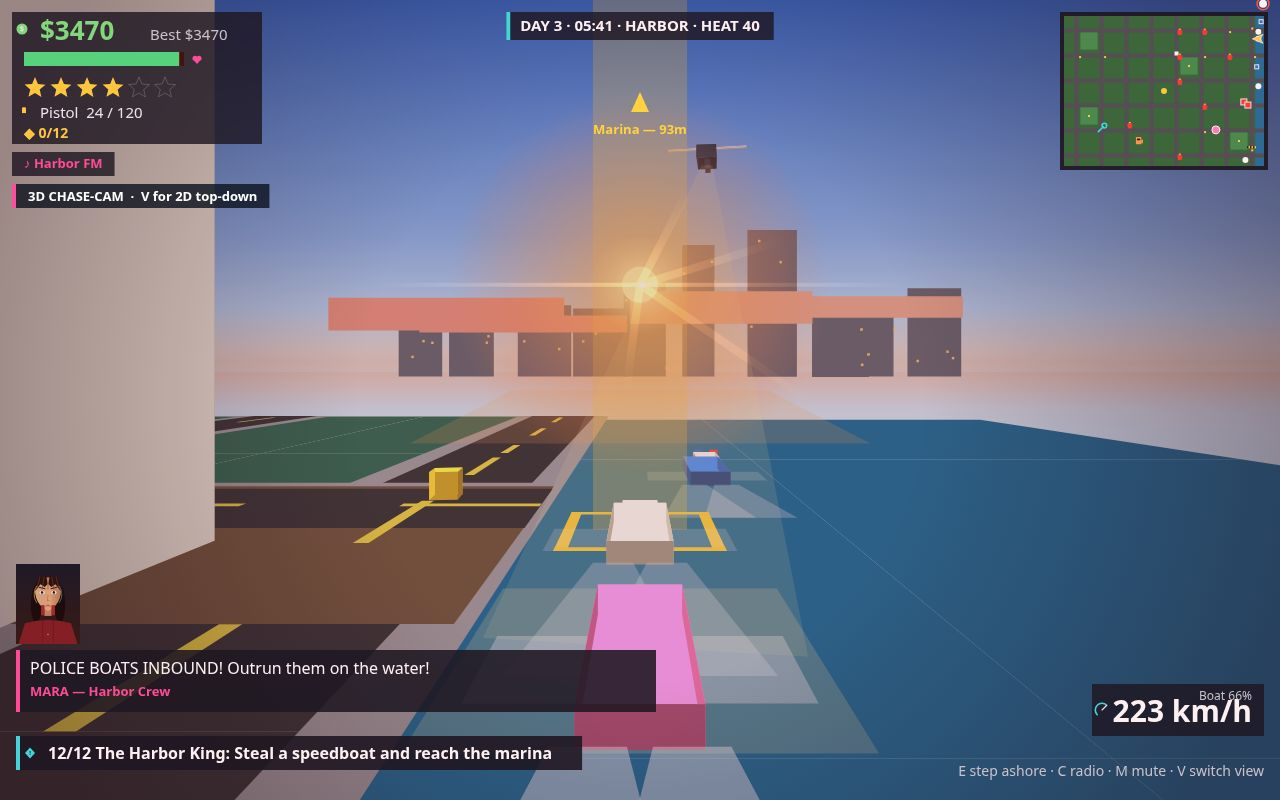
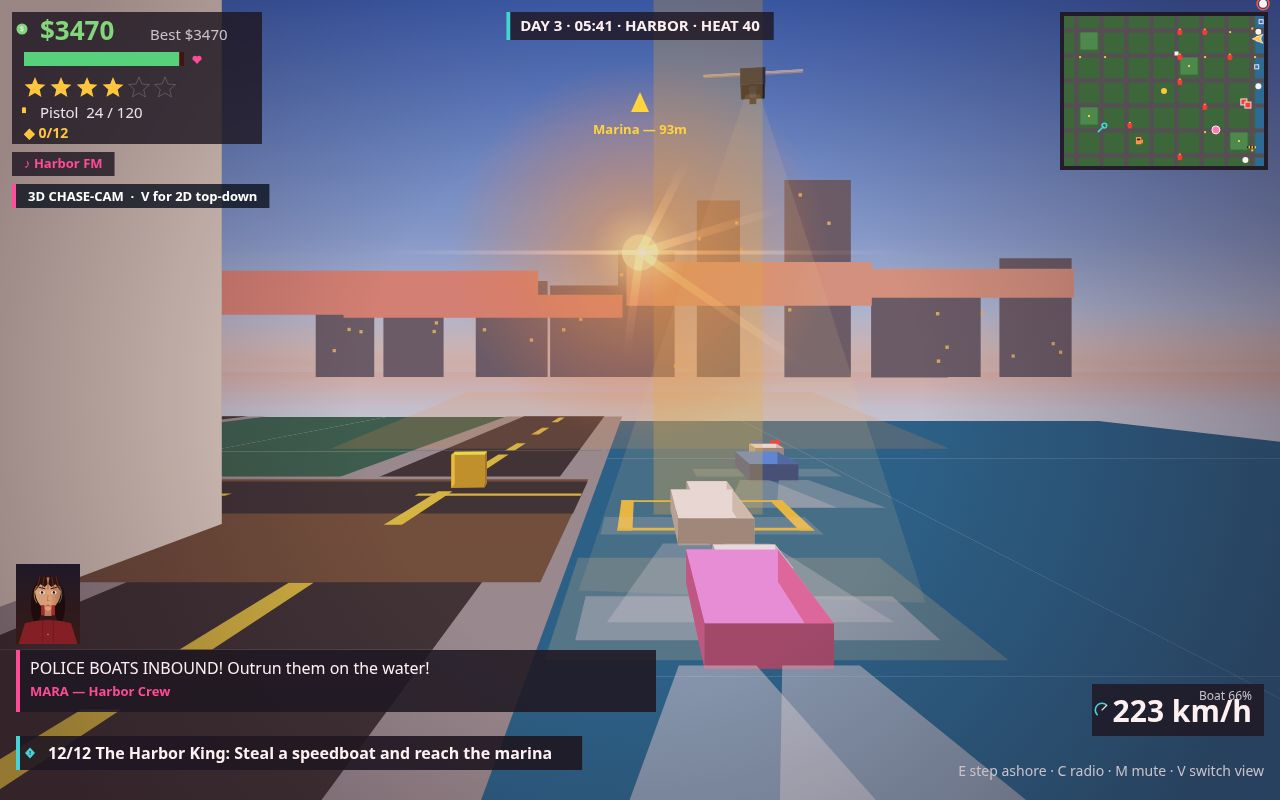
Neon Harbor round 22: chase-cam framing fix — telephoto lens, warm walls, open street

diff --git a/game/src/city3d.js b/game/src/city3d.js
@@ -16,8 +16,14 @@ const hz=d=>cl((d-70)/300,0,.72);
 // orange light bounced off the road. NOT multiplied by shadeK.
 const shW=(c,b,t)=>{const m=c.map(v=>Math.min(255,v*b|0)).map((v,i)=>Math.round(v+(HZ[i]-v)*t));
   return 'rgb('+m.map((v,i)=>Math.round(v*.72+[255,140,80][i]*.28)).join(',')+')';};
+// round 22: the chase camera uses a longer lens + a higher eye than the
+// title frame (narrower FOV = the road fills more of the frame, the
+// flanking walls start further ahead and loom less; the hero stays the
+// same size on screen because the longer lens compensates the pull-back).
+// P() reads these; frame() resets them to the title values every frame.
+let fovF=640, camH=5.6;
 let camZ=0;const ops=[];
-function P(px,py,pz){const dz=pz-camZ;if(dz<2)return 0;return[CX+px*F/dz,HOR-(py-5.6)*F/dz,dz];}
+function P(px,py,pz){const dz=pz-camZ;if(dz<2)return 0;return[CX+px*fovF/dz,HOR-(py-camH)*fovF/dz,dz];}
 function Q(a,b,c,d,col,dep){const p=[P(...a),P(...b),P(...c),P(...d)];if(p.includes(0))return;ops.push({d,f(){x.fillStyle=col;x.beginPath();x.moveTo(p[0][0],p[0][1]);for(let i=1;i<4;i++)x.lineTo(p[i][0],p[i][1]);x.closePath();x.fill();}});}
 function rr(a,b,w,h,r){x.beginPath();x.moveTo(a+r,b);x.arcTo(a+w,b,a+w,b+h,r);x.arcTo(a+w,b+h,a,b+h,r);x.arcTo(a,b+h,a,b,r);x.arcTo(a,b,a+w,b,r);x.closePath();}
 // city: buildings along both sides, right side has a harbor gap z 150..260
@@ -54,6 +60,7 @@ function sign(sd,z0,z1,txt,col){const b=B.find(b=>(b.x>0)===(sd>0)&&b.z>z0&&b.z<
   ops.push({d:p[2],f(){x.save();x.font='bold '+fs+'px sans-serif';x.textAlign='center';x.shadowColor=col;x.shadowBlur=14;x.fillStyle=col;x.fillText(txt,p[0],p[1]);x.restore();}});}
 function frame(t){
   HZ[0]=255;HZ[1]=150;HZ[2]=110;
+  fovF=640;camH=5.6; // title lens (round 22: chase uses its own values)
   camZ=t*26;
   const g=x.createLinearGradient(0,0,0,HOR+60);
   g.addColorStop(0,'#1e0b33');g.addColorStop(.45,'#6b2355');g.addColorStop(.75,'#e0545e');g.addColorStop(1,'#ffb35c');
@@ -213,9 +220,13 @@ function box3(cx, y0, cz, w, h, d, a, col, fogD, depOff) {
   const f4 = [cor(-1, 1, y0), cor(1, 1, y0), cor(1, 1, y1), cor(-1, 1, y1)];
   const f5 = [cor(-1, -1, y0), cor(-1, -1, y1), cor(1, -1, y1), cor(1, -1, y0)];
   QW(f1, sh(c, 1.3 * shadeK, t), dep(f1));
-  QW(f2, sh(c, 0.8 * shadeK, t), dep(f2));
-  QW(f3, sh(c, 0.95 * shadeK, t), dep(f3));
-  QW(f4, sh(c, 1.05 * shadeK, t), dep(f4));
+  // round 22: the sunset bounce floor applies to EVERY vertical face, not
+  // just the west face — round 21 only warmed f5, but the chase camera
+  // looks straight at the long side walls (f2/f3), which stayed pitch
+  // black and read as void. Same floor as f5: +0.22 warm bounce.
+  QW(f2, shadeK < 1 ? shW(c, 0.8 * shadeK + 0.22, t) : sh(c, 0.8 * shadeK, t), dep(f2));
+  QW(f3, shadeK < 1 ? shW(c, 0.95 * shadeK + 0.22, t) : sh(c, 0.95 * shadeK, t), dep(f3));
+  QW(f4, shadeK < 1 ? shW(c, 1.05 * shadeK + 0.22, t) : sh(c, 1.05 * shadeK, t), dep(f4));
   QW(f5, shadeK < 1 ? shW(c, 0.65 * shadeK + 0.22, t) : sh(c, 0.65 * shadeK, t), dep(f5));
 }
 // vertical quad facing along yaw a, centered fOff forward / rOff right of (cx, cz)
@@ -482,6 +493,9 @@ function sunStreaks(sx, sy, len, soft) {
 export function drawChase3D(ctx, state) {
   x = ctx; W = ctx.canvas.width; H = ctx.canvas.height; CX = W / 2; HOR = H * .46;
   camZ = 0;
+  fovF = 860; camH = 4.4; // round 22: telephoto chase lens; low eye keeps
+  // the hero above the dialogue box (a higher eye pushed the car down
+  // behind the HUD in the first round-22 shoot)
   const dl = state.daylight === undefined ? 1 : state.daylight;
   const sky = skyFor(dl);
   HZ[0] = sky.haze[0]; HZ[1] = sky.haze[1]; HZ[2] = sky.haze[2];
@@ -499,7 +513,13 @@ export function drawChase3D(ctx, state) {
   ccLast = now;
   dt = Math.min(Math.max(dt, 0), 0.05);
   const speed = Math.abs(hero.speed || 0);
-  const dist = 9.5 + Math.min(1, speed / 540) * 3;
+  // round 22: pull back (13–16) so the flanking walls start further ahead,
+  // and sit 2 units to the hero's LEFT — the car projects right of centre,
+  // clear of the dialogue box, in 3/4 rear view (roof, side and rear
+  // wheels read instead of one flat slab). The longer lens (fovF 860)
+  // keeps the hero the same size on screen.
+  const dist = 13 + Math.min(1, speed / 540) * 3;
+  const latOff = -2.0;
   const snap = !ccInit || Math.hypot(hx - ccHX, hy - ccHY) > 600;
   // round 20: when the hero has not moved since the last frame (a staged
   // shot paints the same frozen world twice), snap the camera to its
@@ -511,7 +531,7 @@ export function drawChase3D(ctx, state) {
   if (snap) ccYaw = ha;
   else ccYaw += angDiff(ha, ccYaw) * Math.min(1, dt * 4.0);
   const fx = Math.cos(ccYaw), fz = Math.sin(ccYaw);
-  const tx = hx * CS - fx * dist, tz = hy * CS - fz * dist;
+  const tx = hx * CS - fx * dist - fz * latOff, tz = hy * CS - fz * dist + fx * latOff;
   if (snap || still) { ccX = tx; ccZ = tz; ccInit = true; }
   else { ccX += (tx - ccX) * Math.min(1, dt * 8); ccZ += (tz - ccZ) * Math.min(1, dt * 8); }
   ccHX = hx; ccHY = hy;
@@ -661,6 +681,13 @@ export function drawChase3D(ctx, state) {
   // buildings
   for (const b of city.buildings) {
     if (!inRange(b.x + b.w / 2, b.y + b.h / 2, 155, 105)) continue;
+    // round 22: cull the buildings flanking the camera — their side walls
+    // sit 2–3 units away and explode across the whole frame as blank
+    // slabs. The street then opens to the buildings a block ahead, which
+    // read as a city instead of a canyon; the road + sunset dominate.
+    const br = camRel(b.x + b.w / 2, b.y + b.h / 2);
+    const nearFwd = br[0] - Math.max(b.w, b.h) * CS / 2;
+    if (nearFwd < 16 && Math.abs(br[1]) < 16) continue;
     bld3(b, nightF, t);
   }
   // trees
